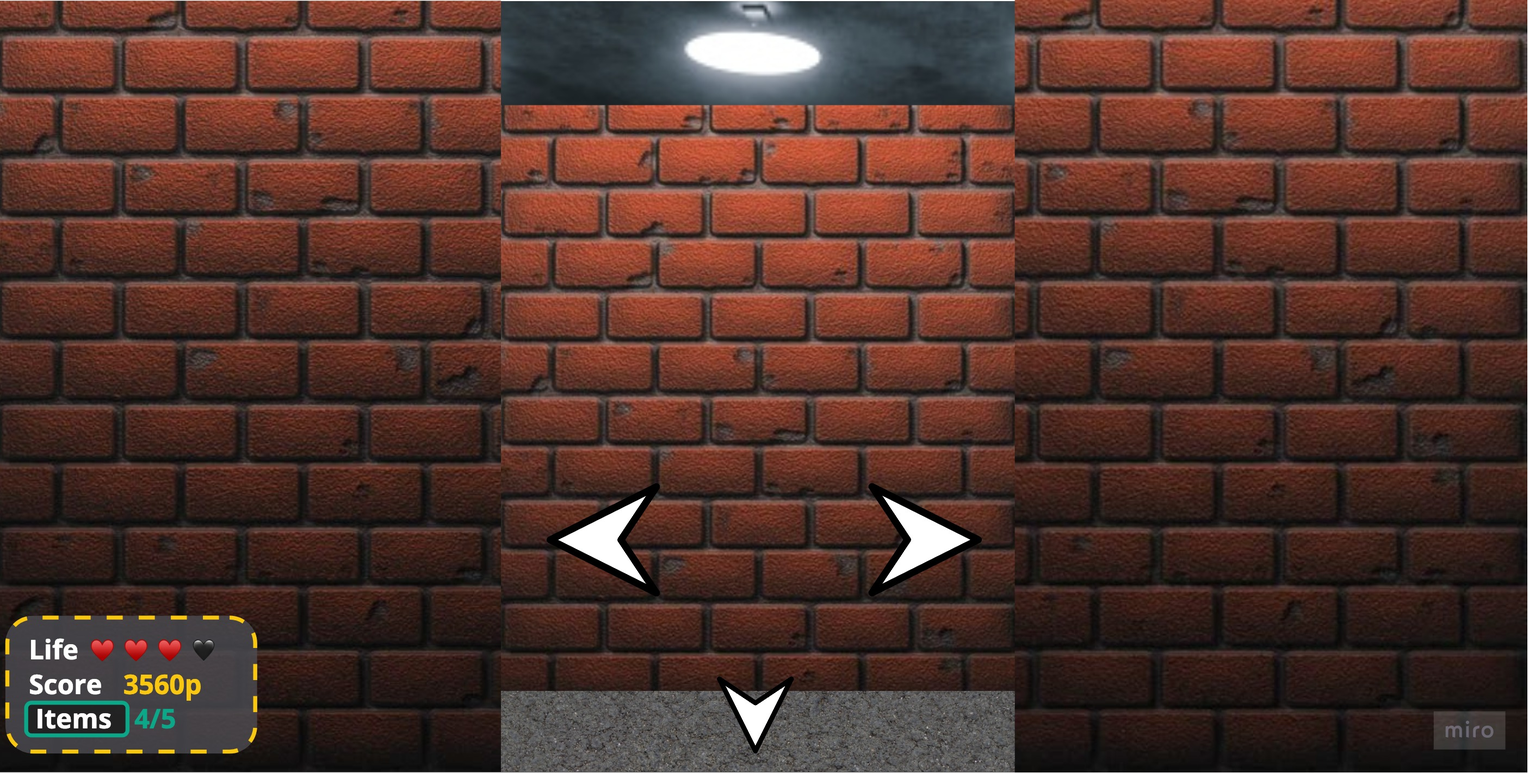
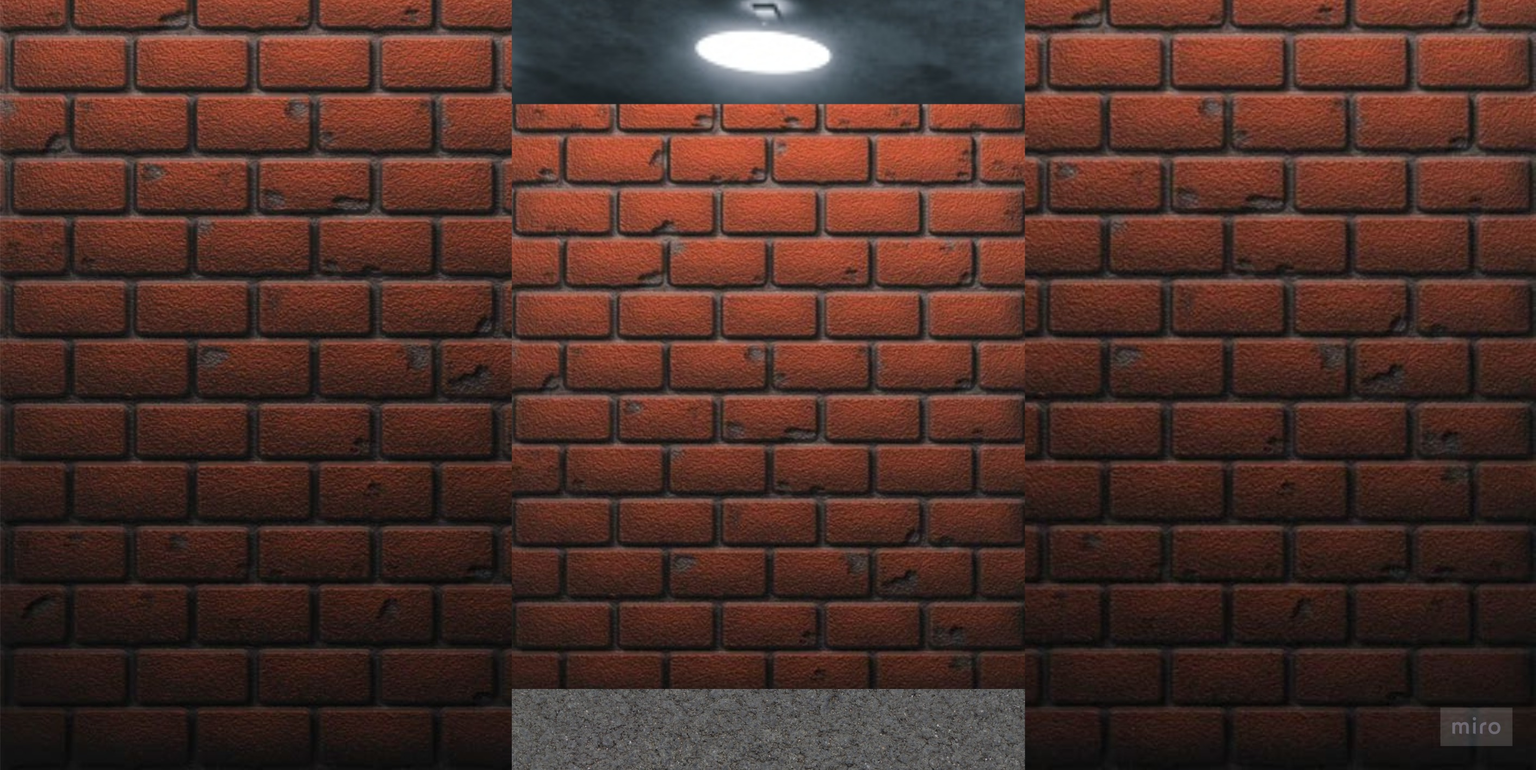
(HTML,CSS,Javascript)Added styling, pictures, eventlisteners for the buttons and some functions to keep the story going

diff --git a/target/classes/static/js/playerView.js b/target/classes/static/js/playerView.js
@@ -1,0 +1,31 @@
+document.getElementById("arrDown").addEventListener("click", down);
+document.getElementById("arrLeft").addEventListener("click", left);
+document.getElementById("arrRight").addEventListener("click", right);
+
+
+
+function down(){
+    console.log("down");
+}
+function left(){
+    let imageSet = document.getElementById("baseImage").src;
+    console.log(imageSet);
+    if(imageSet.includes("doorScreen.jpg")){
+        document.getElementById("arrLeft").addEventListener("click", function(){
+            document.getElementById("baseImage").src="images/jigsawScreen.jpg";
+            document.getElementById("arrDown").remove();
+            document.getElementById("arrLeft").remove();
+            document.getElementById("arrRight").remove();
+        })
+    }
+    console.log("left");
+}
+function right(){
+    let imageSet = document.getElementById("baseImage").src;
+    if(imageSet.includes("BaseScreen.jpg")){
+        console.log("thisIsBaseScreen");
+        document.getElementById("baseImage").src="images/doorScreen.jpg";
+        document.getElementById("arrLeft").style.transform = "rotate(90deg)";
+        document.getElementById("arrRight").style.transform = "rotate(90deg)";
+    }
+}

diff --git a/src/main/resources/static/js/playerView.js b/src/main/resources/static/js/playerView.js
@@ -1,0 +1,30 @@
+document.getElementById("arrDown").addEventListener("click", down);
+document.getElementById("arrLeft").addEventListener("click", left);
+document.getElementById("arrRight").addEventListener("click", right);
+
+
+
+function down(){
+    console.log("down");
+}
+function left(){
+    let imageSet = document.getElementById("baseImage").src;
+    console.log(imageSet);
+    if(imageSet.includes("doorScreen.jpg")){
+        document.getElementById("arrLeft").addEventListener("click", function(){
+            document.getElementById("baseImage").src="images/jigsawScreen.jpg";
+            document.getElementById("arrDown").remove();
+            document.getElementById("arrLeft").remove();
+            document.getElementById("arrRight").remove();
+        })
+    }
+}
+function right(){
+    let imageSet = document.getElementById("baseImage").src;
+    if(imageSet.includes("BaseScreen.jpg")){
+        console.log("thisIsBaseScreen");
+        document.getElementById("baseImage").src="images/doorScreen.jpg";
+        document.getElementById("arrLeft").style.transform = "rotate(90deg)";
+        document.getElementById("arrRight").style.transform = "rotate(90deg)";
+    }
+}

diff --git a/src/main/resources/templates/player.html b/src/main/resources/templates/player.html
@@ -7,10 +7,13 @@
 </head>
 <body>
 <div>
-    <img th:src="@{/images/BaseScreen.jpg}" width="1440x720">
-    <button class="arrowDown"><img th:src="@{/images/arrowDown}" width="100x100"></button>
-    <button class="arrowLeft"><img th:src="@{/images/arrowLeft}" width="100x100"></button>
-    <button class="arrowRight"><img th:src="@{/images/arrowRight}" width="100x100"></button>
+    <img id="baseImage" class= "baseBackground" th:src="@{/images/BaseScreen.jpg}">
+    <button id="arrDown" class="arrowDown"><img th:src="@{/images/arrowDown}" width="70x70"></button>
+    <button id="arrLeft" class="arrowLeft"><img th:src="@{/images/arrowLeft}" width="100x100"></button>
+    <button id="arrRight" class="arrowRight"><img th:src="@{/images/arrowRight}" width="100x100"></button>
 </div>
+<script th:src="@{webjars/jquery/3.1.1/jquery.js}"></script>
+<script th:src="@{/js/playerView.js}"></script>
+
 </body>
 </html>

diff --git a/target/classes/templates/player.html b/target/classes/templates/player.html
@@ -7,10 +7,13 @@
 </head>
 <body>
 <div>
-    <img th:src="@{/images/BaseScreen.jpg}" width="1440x720">
-    <button class="arrowDown"><img th:src="@{/images/arrowDown}" width="100x100"></button>
-    <button class="arrowLeft"><img th:src="@{/images/arrowLeft}" width="100x100"></button>
-    <button class="arrowRight"><img th:src="@{/images/arrowRight}" width="100x100"></button>
+    <img id="baseImage" class= "baseBackground" th:src="@{/images/BaseScreen.jpg}">
+    <button id="arrDown" class="arrowDown"><img th:src="@{/images/arrowDown}" width="70x70"></button>
+    <button id="arrLeft" class="arrowLeft"><img th:src="@{/images/arrowLeft}" width="100x100"></button>
+    <button id="arrRight" class="arrowRight"><img th:src="@{/images/arrowRight}" width="100x100"></button>
 </div>
+<script th:src="@{webjars/jquery/3.1.1/jquery.js}"></script>
+<script th:src="@{/js/playerView.js}"></script>
+
 </body>
 </html>

diff --git a/src/main/resources/static/baseScreen.css b/src/main/resources/static/baseScreen.css
@@ -1,9 +1,28 @@
+.baseBackground{
+    width: 100%;
+    min-height: 100%;
+}
+
 .arrowDown{
+    margin-bottom: auto;
+    top: 90%;
+    left: 48%;
     transform: rotate(270deg);
 }
 .arrowRight{
+    float: right;
+    top: 65%;
+    left: 59%;
     transform: rotate(180deg);
 }
+.arrowLeft{
+    float: left;
+    top: 65%;
+    left: 34%;
+}
 button{
-    background: rgba(0,0,0,0.5);
+    position: absolute;
+    border: none;
+    cursor: pointer;
+    background: rgba(0,0,0,0.0);
 }

diff --git a/target/classes/static/baseScreen.css b/target/classes/static/baseScreen.css
@@ -1,9 +1,28 @@
+.baseBackground{
+    width: 100%;
+    min-height: 100%;
+}
+
 .arrowDown{
+    margin-bottom: auto;
+    top: 90%;
+    left: 48%;
     transform: rotate(270deg);
 }
 .arrowRight{
+    float: right;
+    top: 65%;
+    left: 59%;
     transform: rotate(180deg);
 }
+.arrowLeft{
+    float: left;
+    top: 65%;
+    left: 34%;
+}
 button{
-    background: rgba(0,0,0,0.5);
+    position: absolute;
+    border: none;
+    cursor: pointer;
+    background: rgba(0,0,0,0.0);
 }

diff --git a/src/main/java/group1/horrorgame/demo/controllers/gameController.java b/src/main/java/group1/horrorgame/demo/controllers/gameController.java
@@ -1,6 +1,7 @@
 package group1.horrorgame.demo.controllers;
 
 import group1.horrorgame.demo.services.ItemService;
+import group1.horrorgame.demo.services.PlayerService;
 import org.springframework.beans.factory.annotation.Autowired;
 import org.springframework.stereotype.Controller;
 import org.springframework.web.bind.annotation.RequestMapping;
@@ -10,6 +11,9 @@ public class gameController {
 //
     @Autowired
     ItemService itemService;
+
+    @Autowired
+    PlayerService playerService;
 
     @RequestMapping("/index")
     public String start()   {
@@ -21,6 +25,10 @@ public class gameController {
         return "fight-1";
     }
 
+    @RequestMapping("/player")
+    public String playerView(){
+        return "player";
+    }
 
 //
 //    @Autowired
